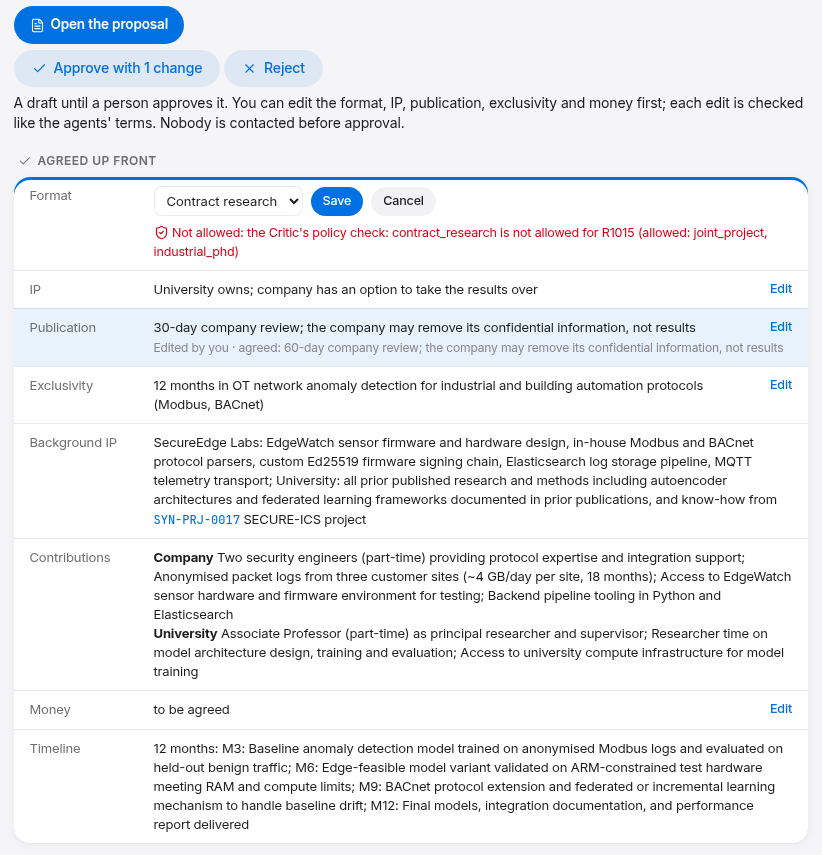
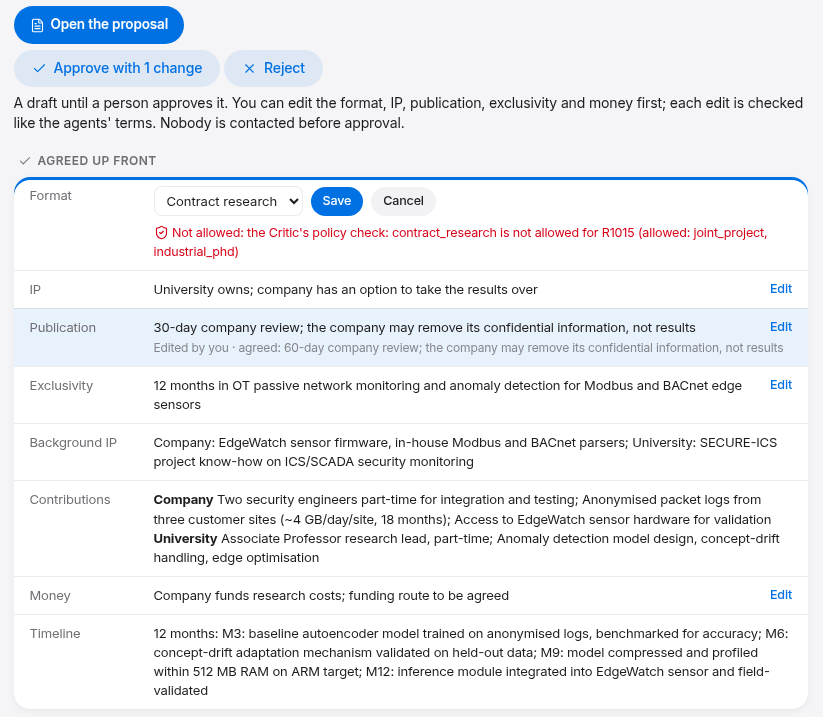
docs(readme): fresh board and term-edit screenshots

diff --git a/README.md b/README.md
@@ -26,7 +26,7 @@ Built on [Mozaik](https://github.com/jigjoy-ai/mozaik) for the NTP Novi Sad × J
 
 **Try the board online: [prenup-board.onrender.com](https://prenup-board.onrender.com)**. It replays the recorded run, with no key and no model calls. It's on a free plan, so the first visit after a quiet spell takes about a minute, and every visitor shares one board.
 
-![The live board after a run: matchmakers and the Arbiter on the left, the negotiation between company and researcher as a conversation on the right, and a timeline with one bar per model call. Screenshot from the earlier 4-challenge build](media/prenup-board.png)
+![The live board after a run: matchmakers and the Arbiter on the left, the negotiation between company and researcher as a conversation on the right, and a timeline with one bar per model call.](media/prenup-board.png)
 
 ## In short
 
@@ -79,7 +79,7 @@ npm run demo -- --replay
 <p align="center">
   <img src="media/prenup-edit.png" alt="Editing the agreed terms before approval: the publication review changed to 30 days and marked as edited, a change to contract research refused by the Critic because it isn't in the researcher's open_to, and the Approve with 1 change button" width="560">
   <br>
-  <sub><b>Step 6</b> (screenshot from the earlier build): an edit the Critic allows, one it refuses, and the approval button counting the changes.</sub>
+  <sub><b>Step 6:</b> an edit the Critic allows, one it refuses, and the approval button counting the changes.</sub>
 </p>
 
 <p align="center">
@@ -248,7 +248,7 @@ Also: the [no-match report](out/nomatch.md), the [trap report](out/traps.md), an
 - Negotiations are two agents working from records, not the people themselves. No recorded negotiation has walked away yet; the no-deal path is covered by tests.
 - After a no-deal, the researcher stays reserved for that challenge.
 - A model call that still fails after 4 retries stops a live run. It happened once, at 8 calls in flight on 15 challenges; `npm run batch` runs with 4.
-- The board screenshots and the parallel-vs-sequential numbers are from the earlier 4-challenge build, marked where they appear.
+- The parallel-vs-sequential numbers are from the earlier 4-challenge build, marked where they appear.
 
 ## Tech
 
